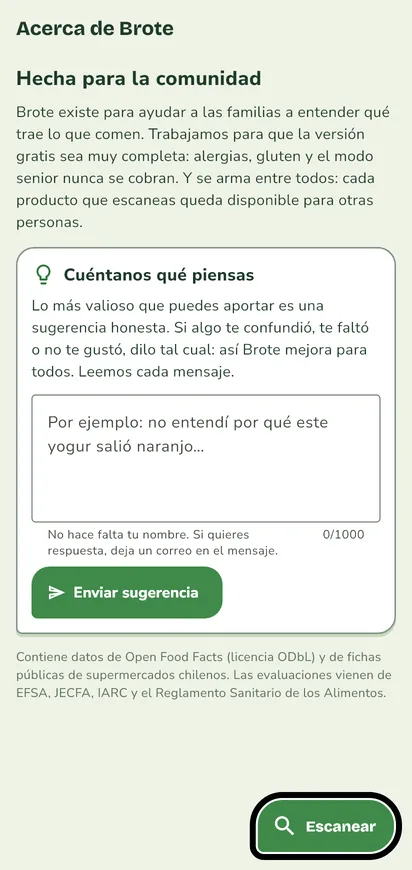
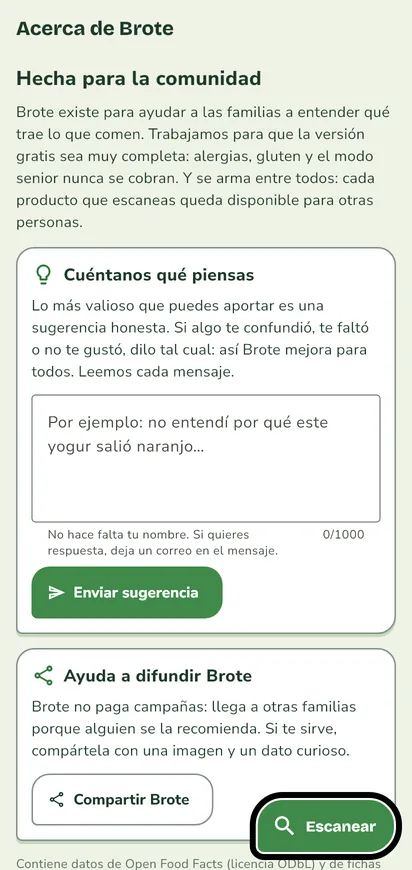
feat: «Comparte Brote» con logros de Compartidor (1.0.16)
Perfil y Acerca de recomiendan Brote con la misma tarjeta de los logros
(«¿Sabías que…?», frase de Brote y link). Cada recomendación suma para
Compartidor, Buen compartidor y Gran compartidor (1, 5 y 15), con
insignia de diente de león.

Changed region(s): [[0.0291, 0.7448, 0.9612, 1.0]]

diff --git a/ayuda/about.html b/ayuda/about.html
@@ -4,7 +4,7 @@
 <meta charset="utf-8">
 <meta name="viewport" content="width=device-width, initial-scale=1, viewport-fit=cover">
 <title>Acerca de Brote · Ayuda de Brote</title>
-<meta name="description" content="Para qué existe Brote. También puedes enviarnos una sugerencia.">
+<meta name="description" content="Para qué existe Brote. También puedes enviarnos una sugerencia o compartir Brote con alguien.">
 <meta name="theme-color" content="#EEF3E6">
 <link rel="icon" type="image/png" href="../img/favicon-32.png">
 <link rel="preconnect" href="https://fonts.googleapis.com">
@@ -69,16 +69,18 @@
     <article>
       <p class="eyebrow">Ayuda · Perfil</p>
       <h1>Acerca de Brote</h1>
-      <p class="lead">Para qué existe Brote. También puedes enviarnos una sugerencia.</p>
+      <p class="lead">Para qué existe Brote. También puedes enviarnos una sugerencia o compartir Brote con alguien.</p>
 <h2>Qué ves</h2>
 <ul>
   <li>Para qué existe Brote: ayudar a las familias a entender lo que comen.</li>
   <li>Lo que nunca se cobra: alergias, gluten y modo senior.</li>
+  <li>«Ayuda a difundir Brote»: Brote no paga campañas: llega a otras familias porque alguien la recomienda.</li>
 </ul>
 <h2>Qué puedes hacer</h2>
 <ul>
   <li>Escribe una sugerencia y toca «Enviar sugerencia». No hace falta tu nombre. Si quieres respuesta, deja un correo en el mensaje.</li>
   <li>Sin internet, la sugerencia sale sola cuando vuelvas a tener conexión.</li>
+  <li>«Compartir Brote» abre la misma tarjeta que los logros: toca «Otro dato» para cambiar el dato curioso y «Compartir» para enviarla.</li>
 </ul>
       <a class="back" href="./">← Todas las pantallas</a>
     </article>

diff --git a/novedades.html b/novedades.html
@@ -184,6 +184,18 @@
     <p class="lead">Brote crece con lo que nos cuentan quienes la usan. Aquí va lo que cambia en cada versión, contado en simple.</p>
     <p>Las versiones llegan primero a una prueba interna y después a los testers. <a href="probar.html">¿Quieres probarla tú también?</a></p>
     <ol class="rel">
+      <li id="v1.0.16">
+        <header>
+          <h2>Comparte Brote y sé Compartidor</h2>
+          <span class="ver">Versión 1.0.16</span>
+          <time>22 de noviembre</time>
+          <span class="stage">En prueba interna</span>
+        </header>
+        <ul>
+          <li>Nuevo «Comparte Brote» en Perfil y en «Acerca de»: arma una imagen con un «¿Sabías que…?» y el link para recomendar Brote a quien le sirva.</li>
+          <li>Brote crece de boca en boca. Cada recomendación suma para los logros de Compartidor: a la 1, a las 5 y a las 15 veces, con su propia insignia de diente de león.</li>
+        </ul>
+      </li>
       <li id="v1.0.15">
         <header>
           <h2>Logros que crecen contigo, para compartir</h2>

diff --git a/ayuda/home-3.html b/ayuda/home-3.html
@@ -79,6 +79,7 @@
 <h2>Qué puedes hacer</h2>
 <ul>
   <li>Toca un integrante para editarlo, o «Usar» para elegirlo como activo.</li>
+  <li>«Comparte Brote» arma una imagen con un «¿Sabías que…?» y el link de Brote para recomendarla. Brote crece de boca en boca, y cada recomendación suma para los logros de Compartidor.</li>
   <li>Apaga «Logros y celebraciones» si no quieres avisos al ganar un logro. Tus logros se siguen guardando.</li>
   <li>«Borrar ya las revisadas» libera espacio con las fotos de etiquetas que ya se revisaron.</li>
   <li>«Actualizar ahora» trae los productos nuevos que registró la comunidad (necesita internet).</li>

diff --git a/ayuda/home-1.html b/ayuda/home-1.html
@@ -87,6 +87,7 @@
 <ul>
   <li>Al compartir solo sale el logro: nunca tus listas, alérgenos ni datos de la familia.</li>
   <li>Por compartir medallas también damos una medalla. Esa no se puede compartir.</li>
+  <li>Recomendar Brote desde Perfil o «Acerca de» te sube de nivel como <b>Compartidor</b>: a la 1, a las 5 y a las 15 veces.</li>
   <li>¿Prefieres sin avisos? En Perfil, apaga «Logros y celebraciones». Tus logros se siguen guardando.</li>
 </ul>
       <a class="back" href="./">← Todas las pantallas</a>
